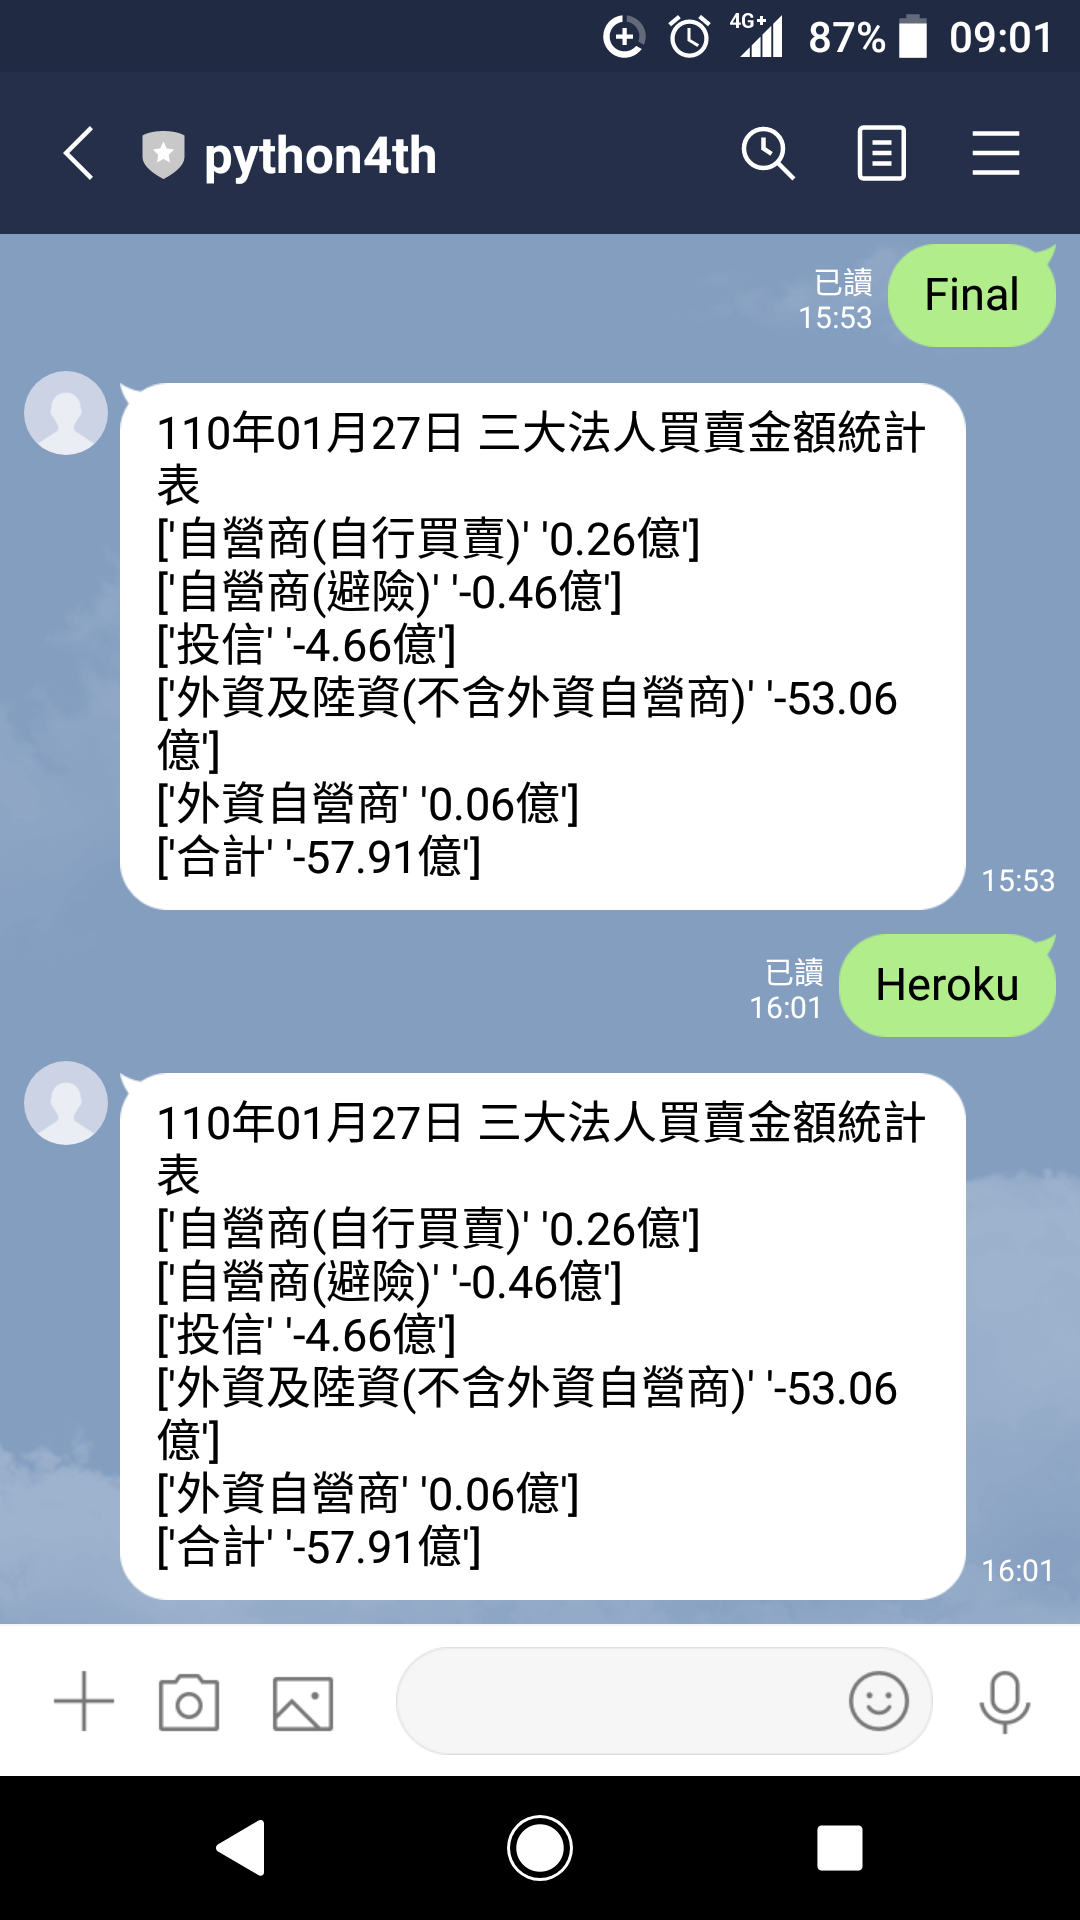
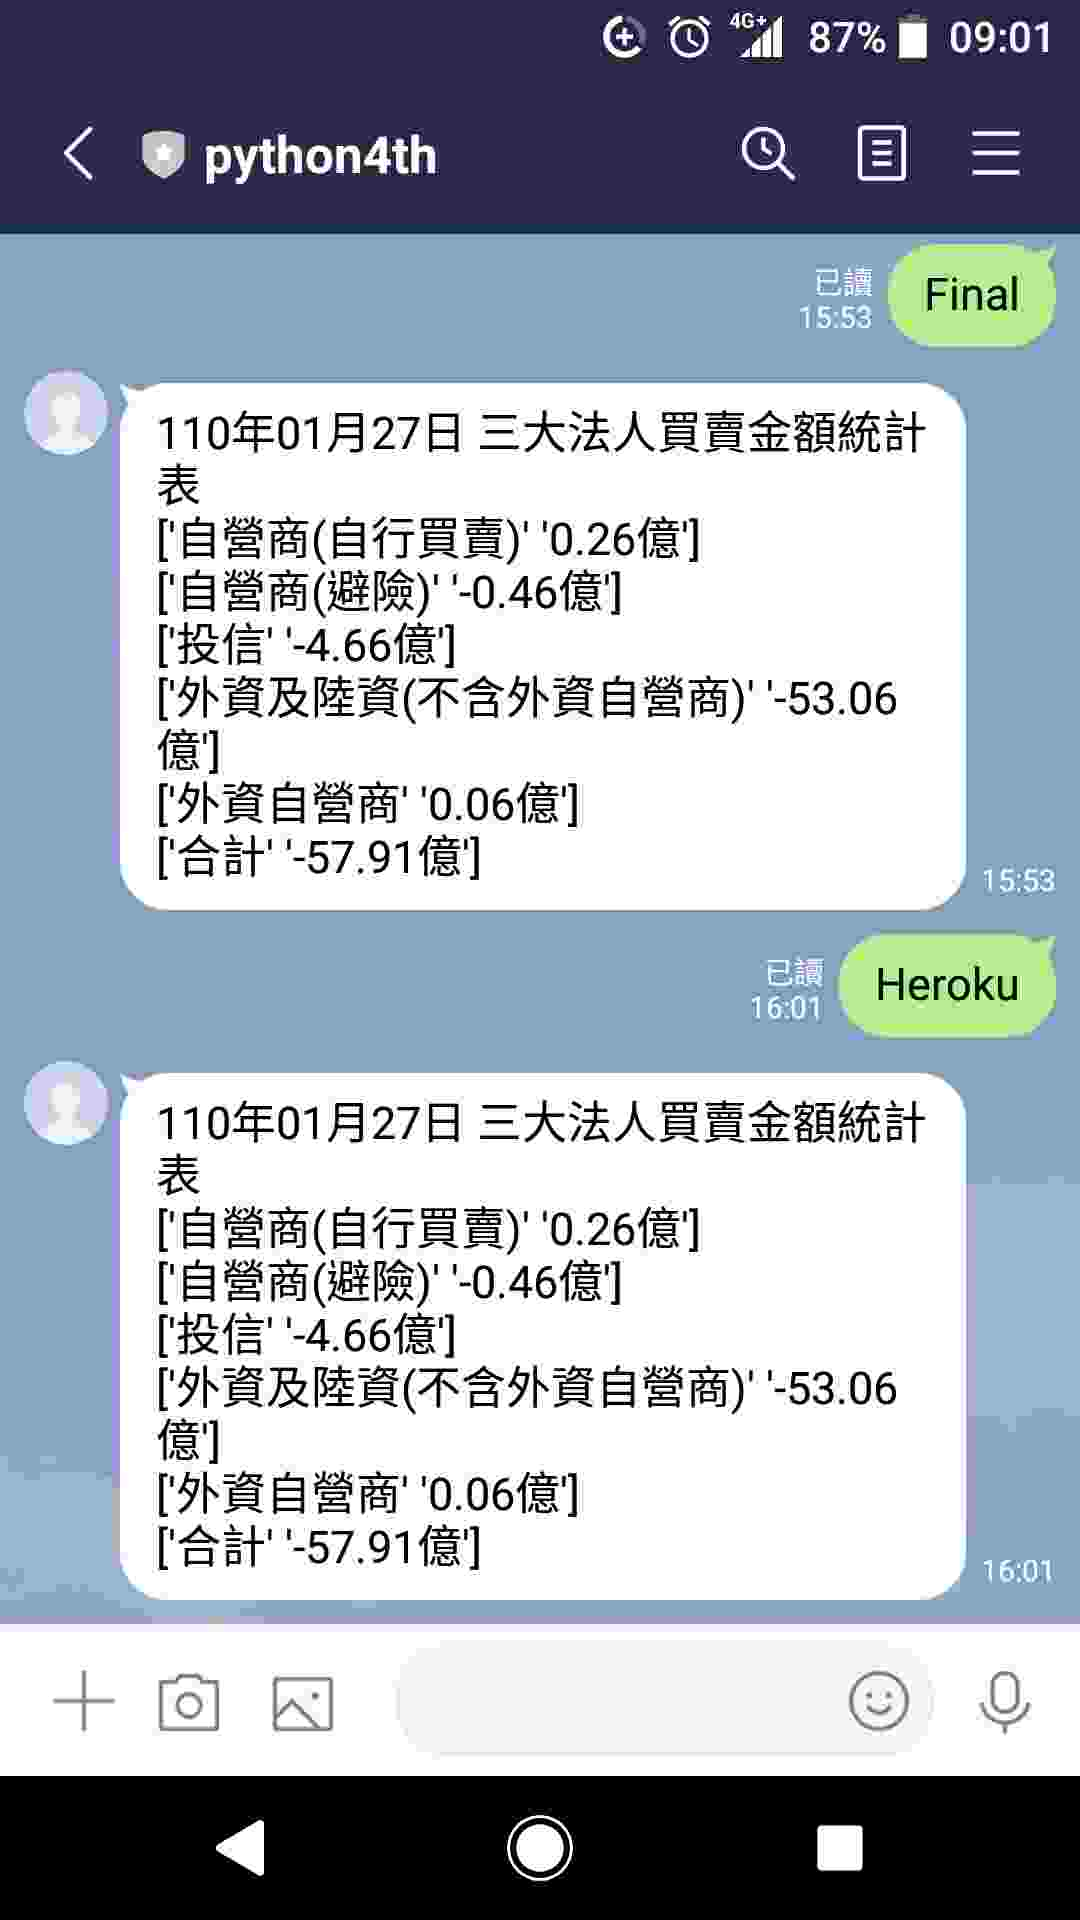
Add images

diff --git a/README.md b/README.md
@@ -1,2 +1,3 @@
-# 將flask api部屬到 Heroku雲端中，並連接Linebot
+# 將flask api部屬到 Heroku雲端中，並與Linebot連接
+*Demo
    ![content](./images/Line.jpg)
